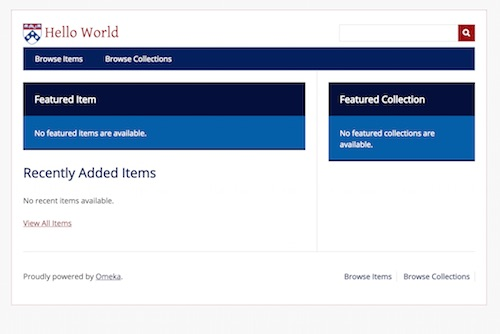
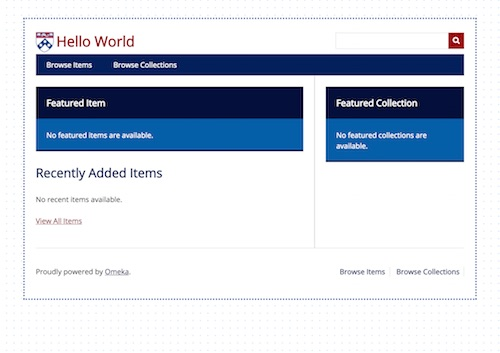
Added cosmetic background changes

Changed region(s): [[0.03, 0.0299, 0.96, 0.6886], [0.03, 0.7485, 0.96, 0.8683], [0.66, 0.5689, 0.96, 0.7784]]

diff --git a/css/style.css b/css/style.css
@@ -375,7 +375,10 @@ Table of Contents
     font-size: 14px;
     line-height: 21px;
     color: #222;
-    background: #f7f7f7; }
+    background: url("../images/blue_dot.png");
+    background-size: 15px;
+    background-repeat: repeat;
+   }
   h1 {
     font-size: 28px;
     line-height: 42px;
@@ -542,7 +545,7 @@ Table of Contents
     width: 884px;
     padding: 21px;
     margin: 42px auto;
-    border: #990000 1px dotted;
+    border: #045ea7 3px dotted;
   }
   #content {
     clear: both;
@@ -688,7 +691,8 @@ Table of Contents
     font-size: 28px;
     line-height: 42px;
     padding: 0 0 5px 40px;
-    font-family: 'Gentium Basic', serif;
+    font-family: 'Open Sans', sans-serif;
+    font-weight: bold;
     background-image: url("../images/logo.png");
     background-position: left;
     background-repeat: no-repeat;
@@ -791,7 +795,6 @@ Table of Contents
     z-index: 15;
     float: left;
     background-color: #011f5b;
-    border: #82afd3 1px dotted;
   }
     .nav-menu a {
       text-decoration: none; }
